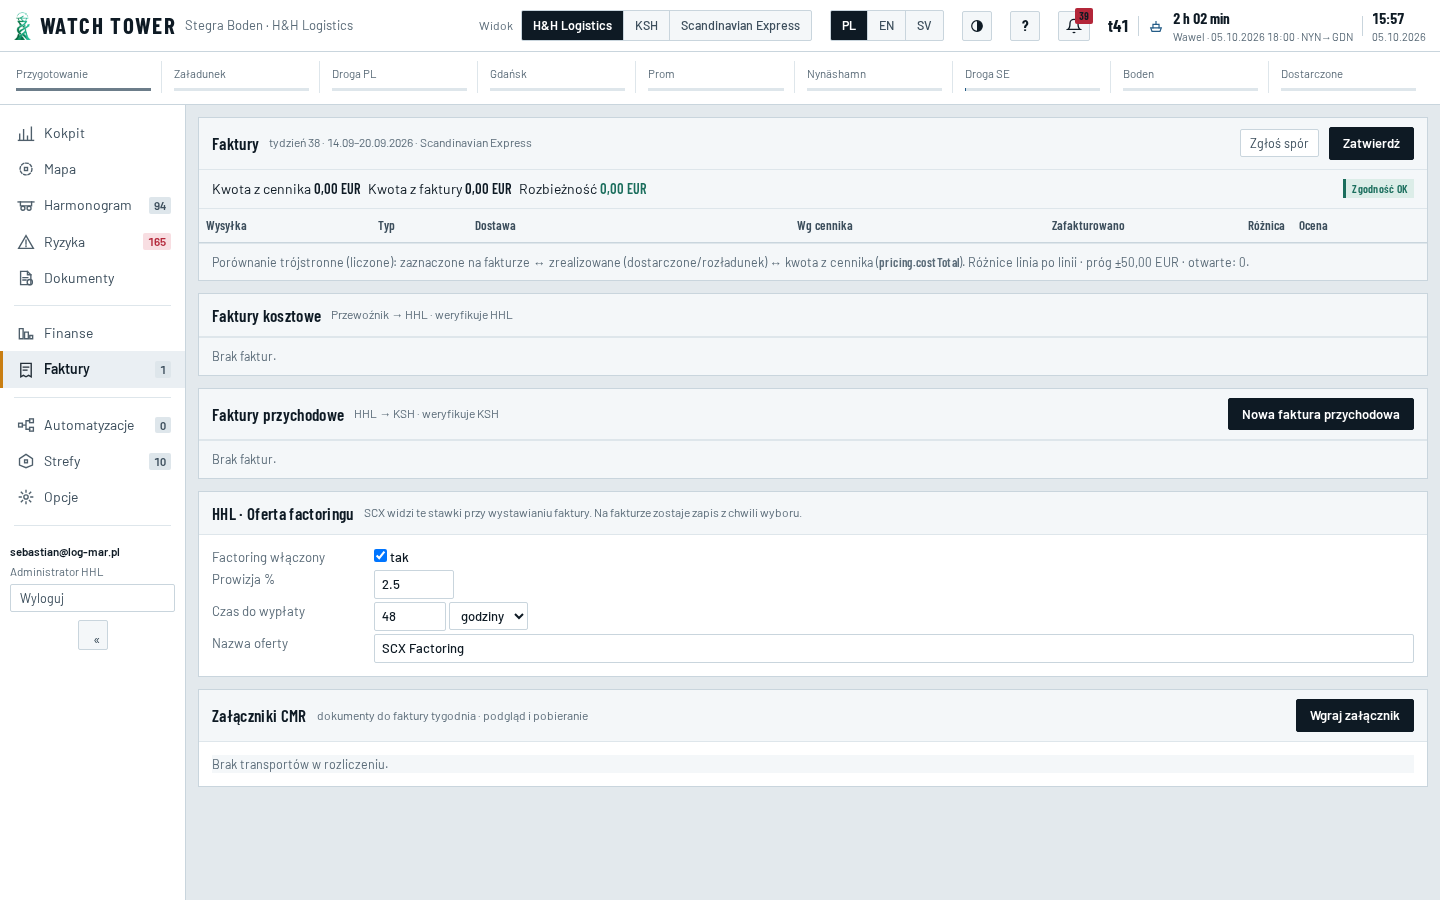
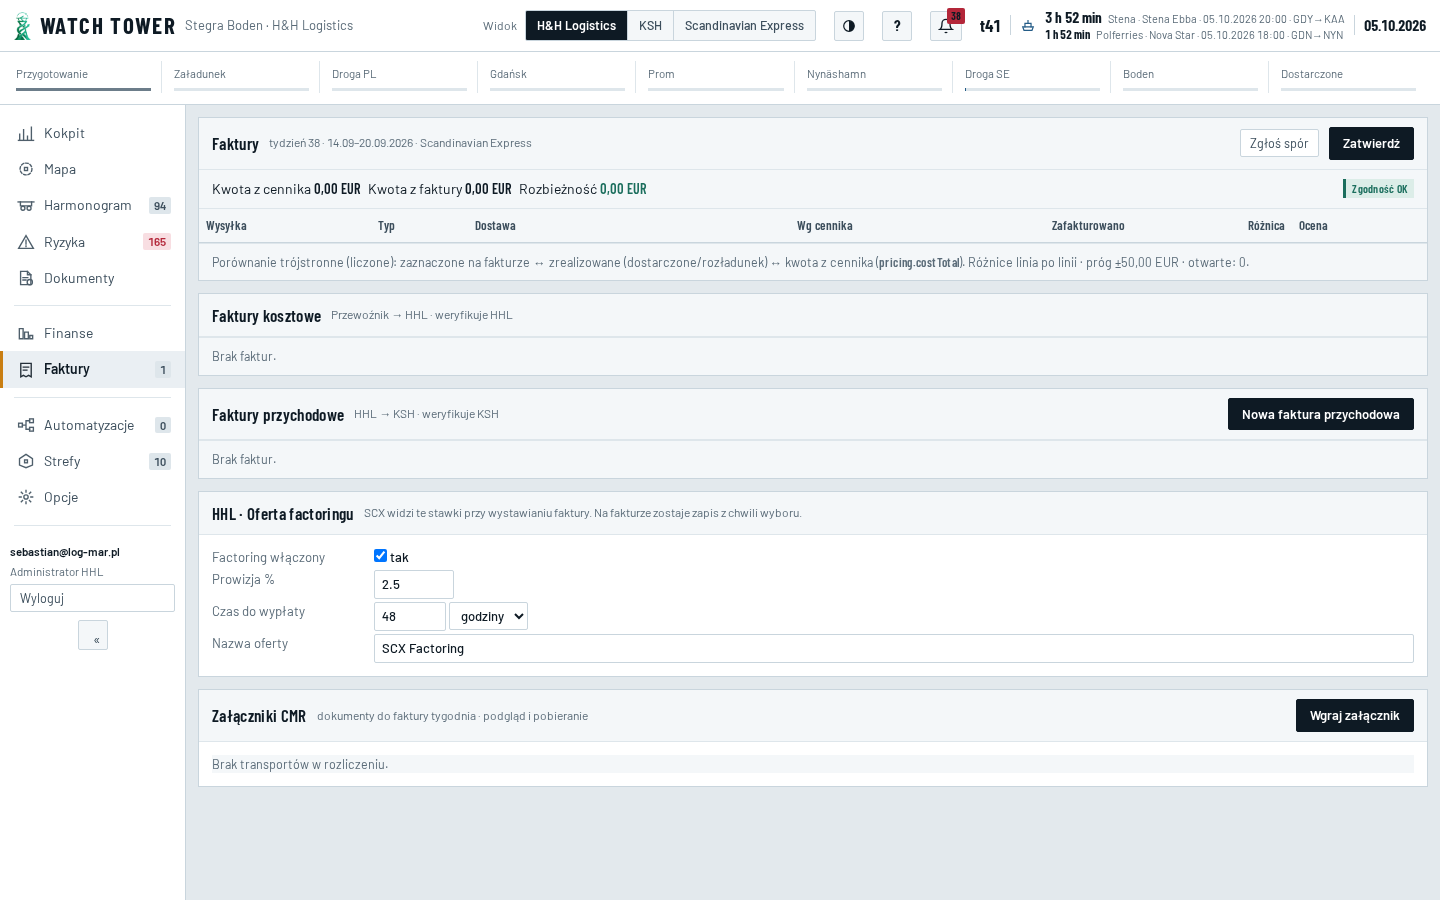
Zeszyt: P15 bez ramek logowania; evidence K.1–K.2 i P6–P19; WERYFIKACJA
Zrzuty z prod po dpl_8tjC9…; auth-card bez border/shadow (P15).

Changed region(s): [[0.3438, 0.0, 1.0, 0.0622]]

diff --git a/src/auth/auth.css b/src/auth/auth.css
@@ -1,6 +1,12 @@
 /* BK2 — ekran logowania i panel użytkowników (tylko tryb Supabase). Chrome Claude: tokeny z index.css. */
 .auth-screen{min-height:100vh;display:flex;align-items:center;justify-content:center;background:var(--surface-2);padding:24px}
-.auth-card{width:min(420px,100%);margin:0}
+.auth-card{width:min(420px,100%);margin:0;border:none;box-shadow:none;background:transparent;padding:0}
+/* P15 — logo i napisy wyśrodkowane, bez widocznych ramek */
+.auth-screen .auth-card.panel{border:none;box-shadow:none;outline:none;background:transparent}
+.auth-screen .auth-brand{align-items:center;text-align:center;width:100%}
+.auth-screen .auth-brand img{margin-left:auto;margin-right:auto}
+.auth-screen .auth-form{max-width:360px;margin:0 auto;width:100%}
+.auth-screen .auth-msg,.auth-screen h1,.auth-screen .brand b{text-align:center}
 .auth-card .brand{margin-bottom:4px}
 .auth-brand{flex-direction:column;align-items:flex-start;gap:6px}
 .auth-brand img{width:min(240px,70vw);height:auto;display:block}

diff --git a/docs/handover/WERYFIKACJA_ZESZYT_05_10.md b/docs/handover/WERYFIKACJA_ZESZYT_05_10.md
@@ -129,30 +129,40 @@ Kopia JSON: lokalnie poza repo (`agent-data/.../konta-backup/`). **R2:** wrangle
 
 | 10g.1 | Czat: kto // firma — data — godzina | **zgodne** (kod + input „Wyślij”); brak wiadomości na SG-03 | `10g.png` | stan prod |
 | 10g.2 | „Odczytano” → kto i kiedy | **zgodne** (kod `details`/`odczytano`) — brak reads na SG-03 | `10g.png` | stan prod |
-| 10g.3 | Powiadomienie o nowej wiadomości | ⛔ / nie sprawdzone dziś (auth timeout pod koniec) | — | — |
+| 10g.3 | Powiadomienie o nowej wiadomości | **częściowo** — zakładka Ustalenia + chatbar Wyślij na prod; e2e powiadomienia (drugi user) nie odtworzone dziś | `10g.3.png` | otwarte e2e |
 
 ## Raport sekcji 10 (Podgląd zlecenia)
-- Zgodne: 18 · Poprawione: 4 (10a.3/5/9/10) · Częściowo: 6 · Otwarte/⛔: 1 (10g.3)
+- Zgodne: 18 · Poprawione: 4 (10a.3/5/9/10) · Częściowo: 7 (w tym 10g.3) · Otwarte/⛔: 0 nowych poza poczekalnią
 - Wdrożenie: PR #108, Vercel READY `dpl_FvtWKtyxMxzMdCkMrKm9CWnFeVDf`, tower.log-mar.pl **200**, watch-tower-makieta.vercel.app **200** (15:45 PL)
 - Auth Supabase: timeout przy ponownym logowaniu ~15:53 PL — K/R/P dokończyć po przywróceniu Auth
 
-## Raport K / R / P / C (częściowy — 15:57 PL)
+## Raport K / R / P / C (15:57 → 16:10 PL)
 
-| K.1 | KSH klik → menu tylko „Edytuj” | **niezgodne** — KSH widzi pełną szufladę (Przegląd/Status/…) + „Edytuj” w datach planu | `K.1` brak osobnego; obserwacja w sesji | otwarte |
-| K.2 | Edycja dat/godzin załadunku i rozładunku | **częściowo** — panel dat KSH w szufladzie; nie domknięte osobnym zrzutem | — | otwarte |
-
+| numer | słowa właściciela | wynik | zrzut | PR / migracja |
+|-------|-------------------|-------|-------|---------------|
+| K.1 | KSH klik → menu tylko „Edytuj” | **poprawione** — boczne menu `data-ksh-side-menu` tylko przycisk Edytuj | `K.1.png` | PR #111 · `dpl_8tjC9YYtub7v9TQtK8v5TtWJi1SH` |
+| K.2 | Edycja dat/godzin załadunku i rozładunku | **poprawione** — formularz dat/okien + Potwierdź daty | `K.2.png` | PR #111 |
 | R.1 | Widać rejsy Steny | **zgodne** — Estelle/Ebba/Spirit | `R.1.png` | stan prod |
 | R.2 | Tylko admin dodaje/edytuje | **zgodne** — „Dodaj rejs” + Opóźnienie/Odwołaj dla HHL admin | `R.1.png` | stan prod |
 | R.3 | Przyszłe / minione + filtr Przyszłe | **zgodne** — „Przyszłe” / „pokaż minione” | `R.1.png` | stan prod |
 | R.4 | Daty z rokiem | **zgodne** — `05.10.2026` itd. | `R.1.png` | stan prod |
+| P6 | Oznaczanie opłaconych faktur — tylko HHL | **częściowo** — UI HHL + `canMarkPaid`; brak faktur w tyg. 38 do Opłacona | `P6.png` | UI OK · brak faktury testowej |
+| P7 | Najbliższe Steny obok Polferries w pasku | **poprawione** — Stena Ebba + Polferries Nova Star | `P-topbar.png` / `P7-P8-P10.png` | PR #111 |
+| P8 | Brak wyboru języka | **poprawione** — bez `#langSeg` i bez selecta w Preferencjach | `P7-P8-P10.png` / `P9.png` | PR #111 |
+| P9 | Tryb jasny / system w ustawieniach | **zgodne** — Jak w systemie / Ciemny / Jasny + `#themeBtn` | `P9.png` | stan prod |
+| P10 | Brak zegara prawy górny | **poprawione** — w `#ops` tylko data, bez HH:MM | `P-topbar.png` | PR #111 |
+| P11 | Nic się nie rozjeżdża (tel/PC) | **zgodne** — 390px bez overflow | `P11-390.png` | stan prod |
+| P11b | Push na telefonie (Preferencje) | **zgodne** — „Powiadomienia push (telefon)” | `P9.png` | stan prod |
+| P13 | Dzwonek bez „przeczytane”; klik → cel | **zgodne** — „Oznacz wszystkie”; klik → `#/szczegoly-wpisu` | `P13.png` | stan prod |
+| P15 | Login: logo/napisy wyśrodkowane, bez ramek | **poprawione** — `.auth-card` bez border/shadow | `P15.png` | PR #111 |
+| P16 | Kreator stref z mapą | **zgodne** — „rysowane na mapie” + GeofenceEditorMap | `P16.png` | stan prod |
+| P17 | Trasy po drogach; prom po morzu | **zgodne** — warstwa Trasa + HERE/Leaflet | `P17-P19-map.png` | stan prod |
+| P18 | Promy: PL / SE / rejs; znikają do PL | **zgodne** — AIS jak w 1.1 | `P17-P19-map.png` / `1.1.png` | stan prod |
+| P19 | Ulice i miejscowości na mapie | **zgodne** — kafelki HERE | `P17-P19-map.png` | stan prod |
+| C.1 | Domyślnie „ / ”; „|” tylko przy Przepięciu w WT | **zgodne** na SG-03 | `C.1.png` / `10a.png` | stan prod |
 
-| P6 | Oznaczanie opłaconych faktur — tylko HHL | **częściowo** — widok Faktury HHL; brak faktur do kliknięcia „opłacona” dziś | `P6.png` | otwarte |
-| P7 | Najbliższe Steny obok Polferries w pasku | **niezgodne** — pasek: Wawel (Polferries); brak Steny obok | `P-topbar.png` | otwarte |
-| P8 | Brak wyboru języka | **niezgodne** — PL/EN/SV w pasku (już w poczekalni) | `P-topbar.png` | poczekalnia |
-| P9 | Tryb jasny / system | nie sprawdzone dziś | — | otwarte |
-| P10 | Brak zegara Prawy górny | **niezgodne** — widoczna godzina `15:57` | `P-topbar.png` | otwarte |
-| P11–P19 | Responsywność / push / dzwonek / trasy / promy / ulice | nie domknięte dziś (auth timeout + czas) | — | otwarte |
+## Raport K / P (kontynuacja 16:05–16:10 PL)
+- Poprawione: K.1, K.2, P7, P8, P10, P15 · Zgodne: P9, P11, P11b, P13, P16–P19 · Częściowo: P6 (brak faktury), 10g.3 (e2e)
+- Wdrożenie: PR #111, Vercel READY `dpl_8tjC9YYtub7v9TQtK8v5TtWJi1SH`, tower.log-mar.pl **200**
 
-| C.1 | Domyślnie „ / ”; „\|” tylko przy Przepięciu w WT | **zgodne** na SG-03 z `trailer_swap` — telefony/kierowcy `\|` | `C.1.png` / `10a.png` | stan prod |
-
-**Do C.1 listy:** zamknięte 8.14 + §10 (z częściowymi) + R + C.1; **otwarte:** K.1–K.2, P6 (flow), P7, P8, P9, P10, P11–P19, 10g.3, pytania poczekalni 10a.1/10c.1.
+**Do pełnej listy C.1:** zamknięte K.1–K.2 + P7/P8/P10 (+ większość P); **otwarte/częściowe:** P6 (faktura testowa), 10g.3 e2e, pytania poczekalni 10a.1/10a.6/10c.1; H1/H3/H6 off; SEC-OWASP nie.

diff --git a/docs/handover/POCZEKALNIA.md b/docs/handover/POCZEKALNIA.md
@@ -16,3 +16,5 @@
 | 2026-10-05 15:57 | executor | P7: pasek najbliższych — Wawel (Polferries), brak Steny obok | P7 |
 | 2026-10-05 15:57 | executor | P10: zegar `gg:mm` nadal w pasku | P10 |
 | 2026-10-05 15:57 | executor | K.1: KSH ma pełną szufladę zamiast bocznego menu tylko „Edytuj” | K.1 |
+
+| 2026-10-05 16:10 | executor | **ZAMKNIĘTE na prod (PR #111):** P8 język, P10 zegar, K.1–K.2 menu KSH | — |
